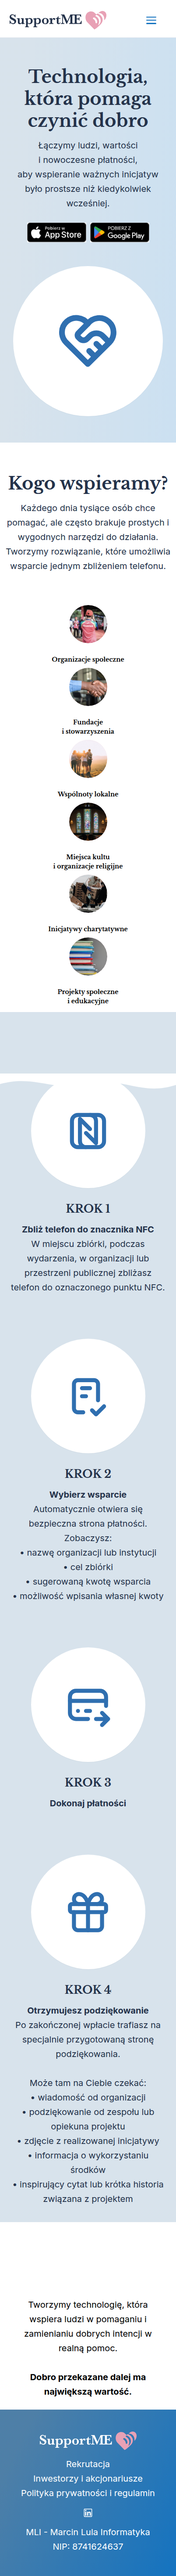
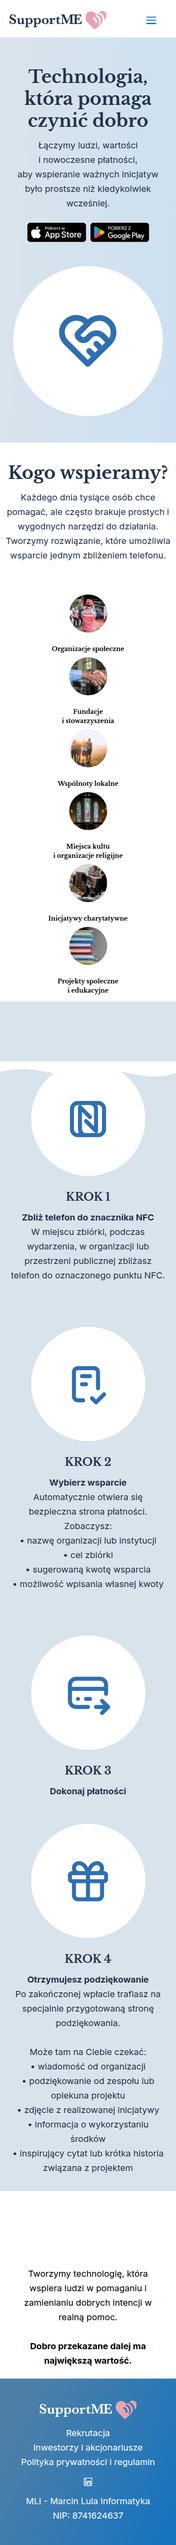
Mobile „Kogo wspieramy" 1:1: cały blok kategorii wyrównany (był +24px nisko)
Nakładka pikseli: per-kafelek odstępy IDENTYCZNE z Figmą (143/164px), ale cały blok +24px
za nisko (gap hero→h2 68 vs Figma 44). Fix: .lp-support padding-top 68→44 na mobile,
kompensacja .lp-how padding-top 113→137 (by nie ruszyć kroków). Teraz: h2 +2, kafelki -2,
KROK1 0, KROK2-4 +4-5. screen.html odświeżony.

Changed region(s): [[0.1194, 0.4371, 0.9254, 0.9991], [0.0299, 0.0312, 0.9552, 0.4059], [0.1791, 0.5308, 0.209, 0.562]]

diff --git a/public/css/landing.css b/public/css/landing.css
@@ -221,11 +221,12 @@ img{ display:block; max-width:100%; }
     .lp-hero__art{ margin:0; align-self:center; }
     .lp-circle--hero{ width:min(342px,86vw); height:min(342px,86vw); font-size:40px; }
     .lp-head h2{ font-size:40px; }
+    .lp-support{ padding-top:44px; }   /* gap hero→„Kogo wspieramy" jak Figma (było +24px za dużo) */
     .lp-cats{ flex-direction:column; align-items:center; gap:8px; margin-top:72px; }
     .lp-grid{ grid-template-columns:1fr; }
     /* mobile: brak nagłówka „Jak to działa?" (nie ma go w ramce mobilnej Figmy) */
     .lp-how .lp-head{ display:none; }
-    .lp-how{ margin:14px 0 0; padding:113px 0 36px; background:var(--lp-wave); }
+    .lp-how{ margin:14px 0 0; padding:137px 0 36px; background:var(--lp-wave); }
     /* mobile: jednolity niebieski panel na pełną szerokość (jak w ramce Figmy),
        z falującą białą krawędzią u góry — zamiast desktopowej fali */
     .lp-how::before{
